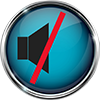
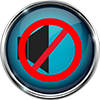
Changes sound off button to have red cancel inside.

Changed region(s): [[0.15, 0.09, 0.84, 0.87]]

diff --git a/src/App.js b/src/App.js
@@ -4,7 +4,7 @@ import { Link, Switch, Route } from "react-router-dom";
 import { Lobby } from "./components/buttons/Lobby";
 import RulePage from "./components/rule/RulePage";
 import Player from './components/MusicPlayer'
-import { AlertParent, MessageAlert, CenteredBox } from './components/styled-components';
+// import { AlertParent, MessageAlert, CenteredBox } from './components/styled-components';
 
 function App() {
   const navStyling = {
@@ -19,6 +19,15 @@ function App() {
     alignItems: 'center',
   }
 
+  const buttons = {
+    display: 'flex',
+    width: '93vw',
+    height: '60px',
+    justifyContent: 'flex-end',
+    alignItems: 'center',
+    // border: '4px solid yellow',
+  }
+
   return (
     <>
     {/* ============= JUNE ============ TAKE THIS CODE, and move to CardTest. */}
@@ -30,11 +39,15 @@ function App() {
         </CenteredBox>
       </AlertParent> */}
       <nav style={navStyling}>
-        <Link to="/">
-          <Lobby />
-        </Link>
-        <RulePage />
-        <Player/>
+        <div>
+          <Link to="/">
+            <Lobby />
+          </Link>
+        </div>
+        <div style={buttons}>
+          <RulePage />
+          <Player/>
+        </div>
       </nav>
 
       <Switch>
